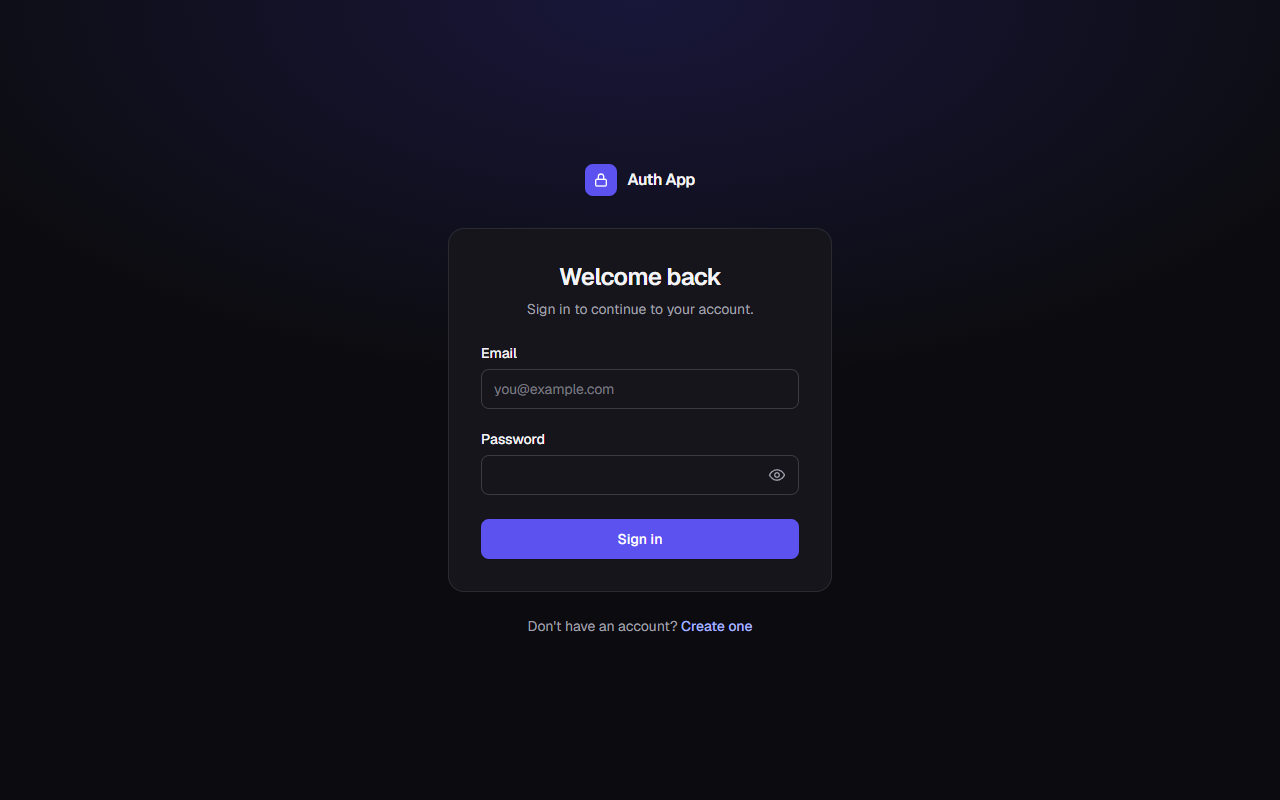
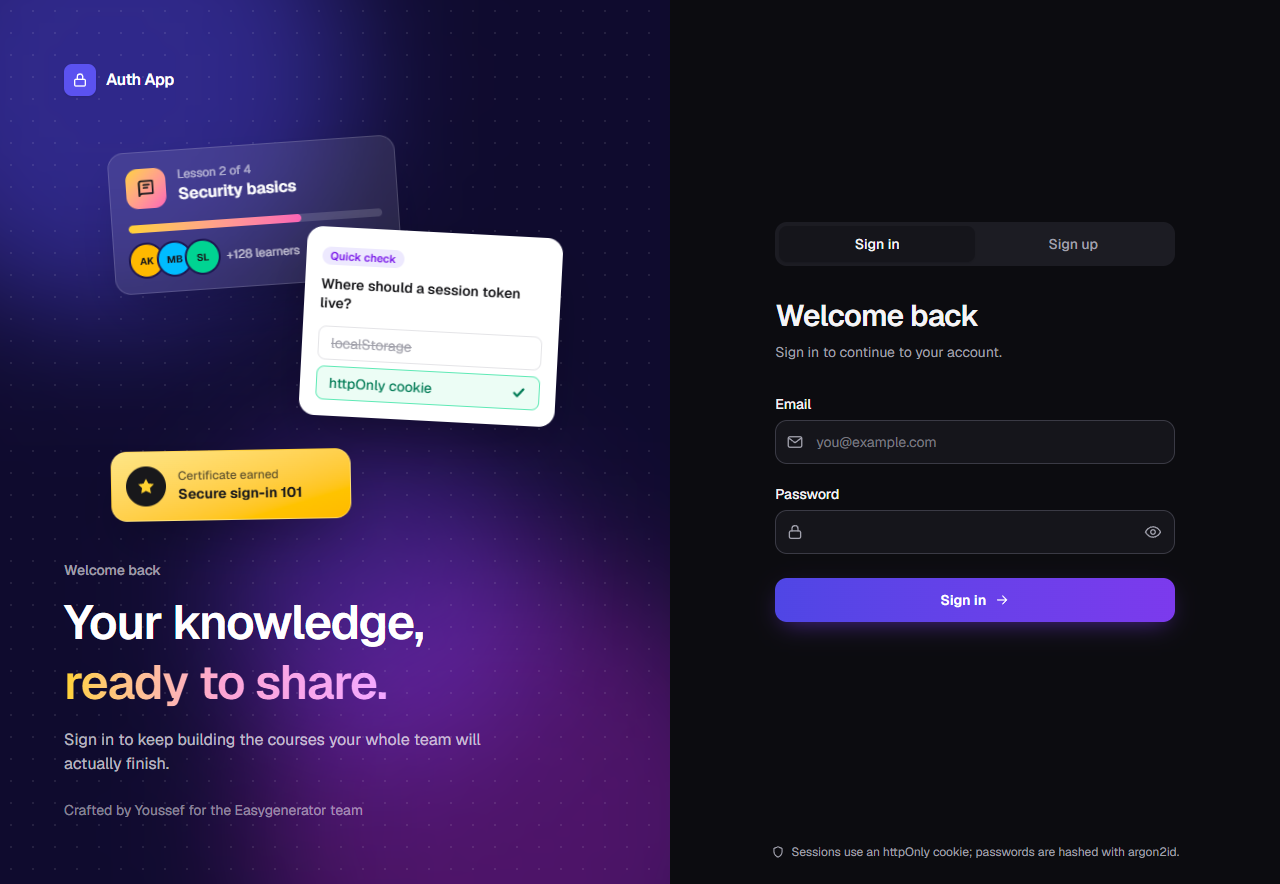
docs: screenshots and README for the redesigned auth and welcome pages

diff --git a/README.md b/README.md
@@ -15,8 +15,12 @@ readable by JavaScript. Everything runs behind one origin with `docker compose u
 |---|---|---|
 | Sign in | ![Sign in, light](frontend/docs/screenshots/signin-light.png) | ![Sign in, dark](frontend/docs/screenshots/signin-dark.png) |
 | Sign up (validation) | ![Sign up with errors, light](frontend/docs/screenshots/signup-errors-light.png) | ![Sign up with errors, dark](frontend/docs/screenshots/signup-errors-dark.png) |
-| App | ![App, light](frontend/docs/screenshots/app-light.png) | ![App, dark](frontend/docs/screenshots/app-dark.png) |
+| App (comic + mini-course) | ![App, light](frontend/docs/screenshots/app-light.png) | ![App, dark](frontend/docs/screenshots/app-dark.png) |
+| Mini-course certificate | ![Certificate, light](frontend/docs/screenshots/certificate-light.png) | ![Certificate, dark](frontend/docs/screenshots/certificate-dark.png) |
 
+The sign-in and sign-up pages pair the form with an animated brand panel. After sign-in, the page made
+for the Easygenerator team shows a four-panel SVG comic about knowledge sharing that greets the user by
+name, and "Secure sign-in 101": a quiz about how this app protects the session, ending in a certificate.
 360px mobile versions are in [`frontend/docs/screenshots`](frontend/docs/screenshots).
 
 **Contents:** [Architecture](#architecture) · [Tech stack](#tech-stack) · [Repository structure](#repository-structure) · [Quick start](#quick-start-docker) · [Local development](#local-development-without-docker) · [Environment variables](#environment-variables) · [API](#api) · [Testing](#testing) · [CI](#ci) · [Security decisions](#security-decisions) · [Known limitations](#known-limitations--trade-offs) · [Troubleshooting](#troubleshooting) · [AI usage](#ai-usage)
@@ -52,7 +56,7 @@ rejects is cleared via `POST /api/auth/logout` and the user lands on `/signin`.
 | Logging / docs | nestjs-pino 5 (pino 10), @nestjs/swagger 11.4 | JSON logs with redacted cookies; OpenAPI at `/api/docs` |
 | Frontend | Next.js 16.4 (App Router), React 19.3 | `proxy.ts` route protection, rewrites, standalone server |
 | Forms / state | react-hook-form 7.92 + Zod 4.6, Zustand 5.1, axios 1.21 | Same rules as the API; tiny store without persistence |
-| UI | Tailwind CSS 4.3 | Light/dark tokens via `prefers-color-scheme`, no UI library |
+| UI | Tailwind CSS 4.3, inline SVG | Light/dark tokens via `prefers-color-scheme`; hand-drawn SVG comic and CSS animations (off with reduced motion); no UI or animation library |
 | Tests | Jest 30 + supertest + mongodb-memory-server; Vitest 4.1 + Testing Library + MSW 2 | Real HTTP and in-memory MongoDB for the API; jsdom + mocked network for the UI |
 | Delivery | Docker (Node 22 alpine), nginx 1.30, GitHub Actions | Production-like stack in one command |
 
@@ -69,7 +73,8 @@ Node: Docker and CI use **Node 22 LTS** (`.nvmrc`); `engines` is `>=20.19.0`, so
 │  ├─ test/                 e2e specs + utils (in-memory MongoDB, test app factory)
 │  └─ Dockerfile
 ├─ frontend/                Next.js app
-│  ├─ src/app/              (auth)/signin, (auth)/signup, (protected)/app, not-found, error
+│  ├─ src/app/              (auth)/signin, (auth)/signup, (protected)/app, not-found, error;
+│  │                        route-only components in _components/ (showcase, comic, course)
 │  ├─ src/components/ui/    Button, Input, Label, FormField, Card, Alert, Spinner, Logo
 │  ├─ src/features/auth/    components, schemas, services, store, types
 │  ├─ src/lib/              http client, ApiError, form error helper, routes (no feature imports)
@@ -173,10 +178,10 @@ The user is always `{ id, email, name, createdAt }`. Every error has the same sh
 |---|---|---|
 | Backend unit | `cd backend && npm test` (`npm run test:cov`) | Services, the exception filter, DTO validation, config parsing (env, durations, `TRUST_PROXY`), cookie options |
 | Backend e2e | `npm run test:e2e` (`npm run test:e2e:cov`) | The real app bootstrap against in-memory MongoDB: full session flow, validation messages (including emoji names), duplicate emails, identical 401s, cookie attributes (incl. `Secure` in production), a JWT that carries only `sub`, tampered/expired/foreign/`alg=none` JWTs, deleted users, 429 + `Retry-After`, `TRUST_PROXY` behaviour (including a rotating `X-Forwarded-For`), 413 for oversized bodies, health/Swagger, and that no response ever contains a password or hash |
-| Frontend | `cd frontend && npm test` (`npm run test:cov`, `test:watch`) | Zod schemas, HTTP error normalization, message-to-field mapping, store, forms (MSW), `proxy.ts`, protected layout |
+| Frontend | `cd frontend && npm test` (`npm run test:cov`, `test:watch`) | Zod schemas, HTTP error normalization, message-to-field mapping, store, forms (MSW), strength meter, `proxy.ts`, protected layout, the auth switch and showcase, the comic and the mini-course |
 
 Coverage at the time of writing: backend e2e **96% statements** (unit 50%, since controllers and wiring are
-exercised end to end); frontend **88% statements / 91% branches**. The backend's first `npm ci` also
+exercised end to end); frontend **92% statements / 93% branches**. The backend's first `npm ci` also
 downloads a MongoDB binary for the in-memory e2e database (several hundred MB), so it can take a while.
 
 **Drift guard.** The validation **constants are shared and drift-guarded; the logic is mirrored and tested
